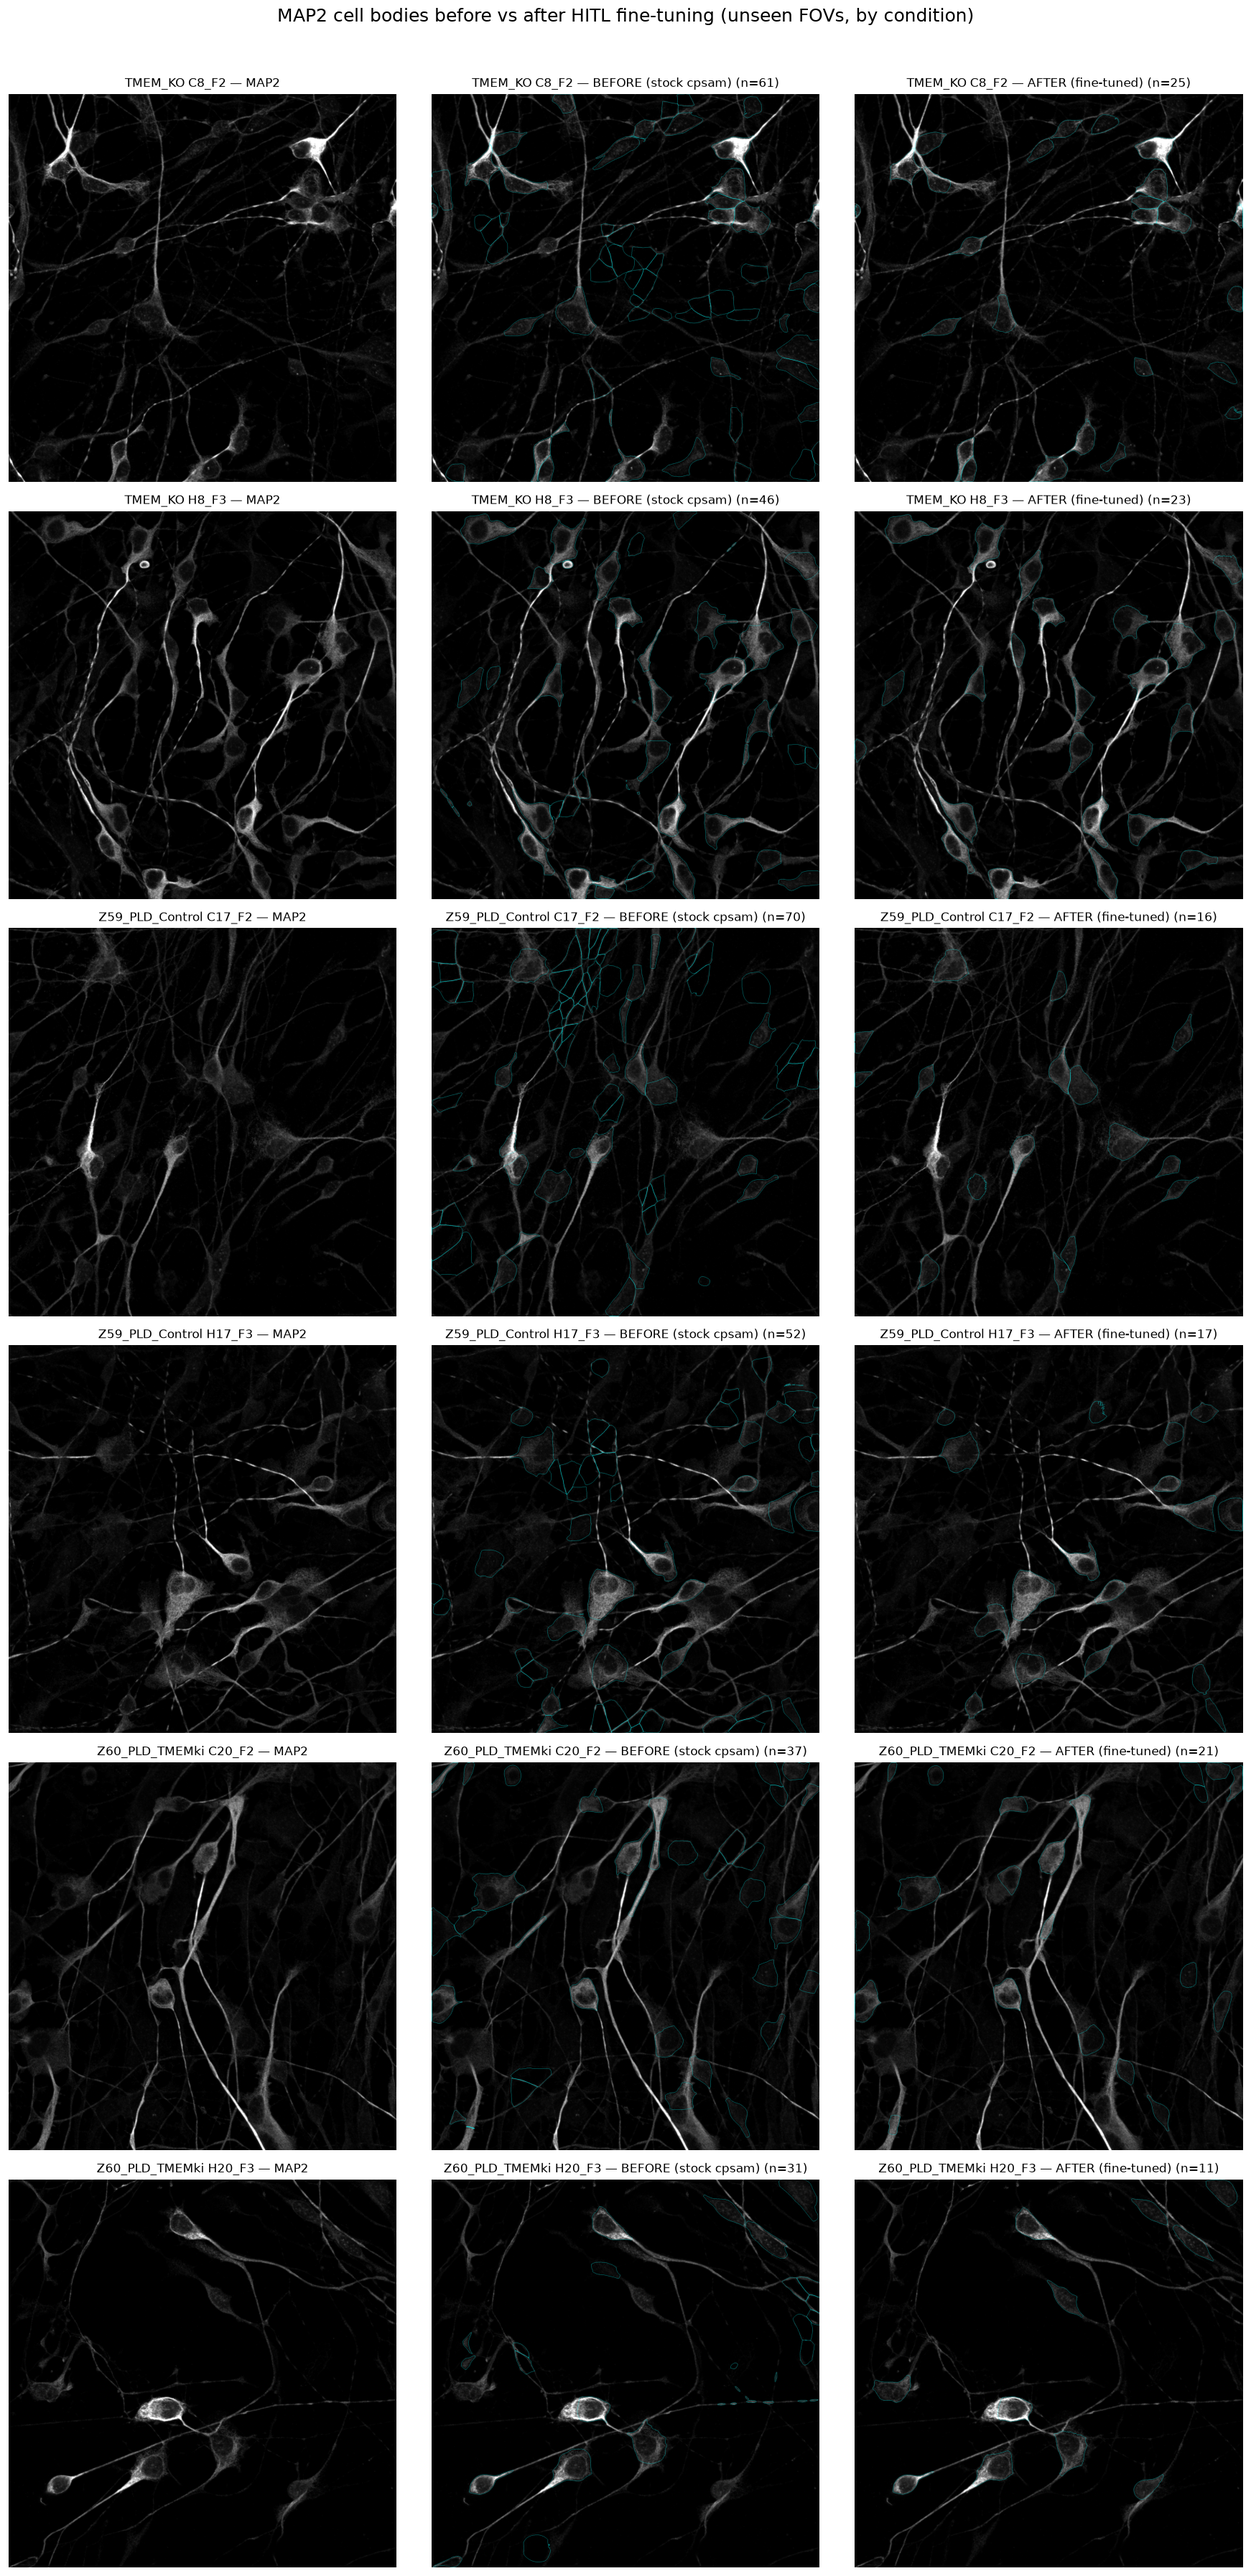
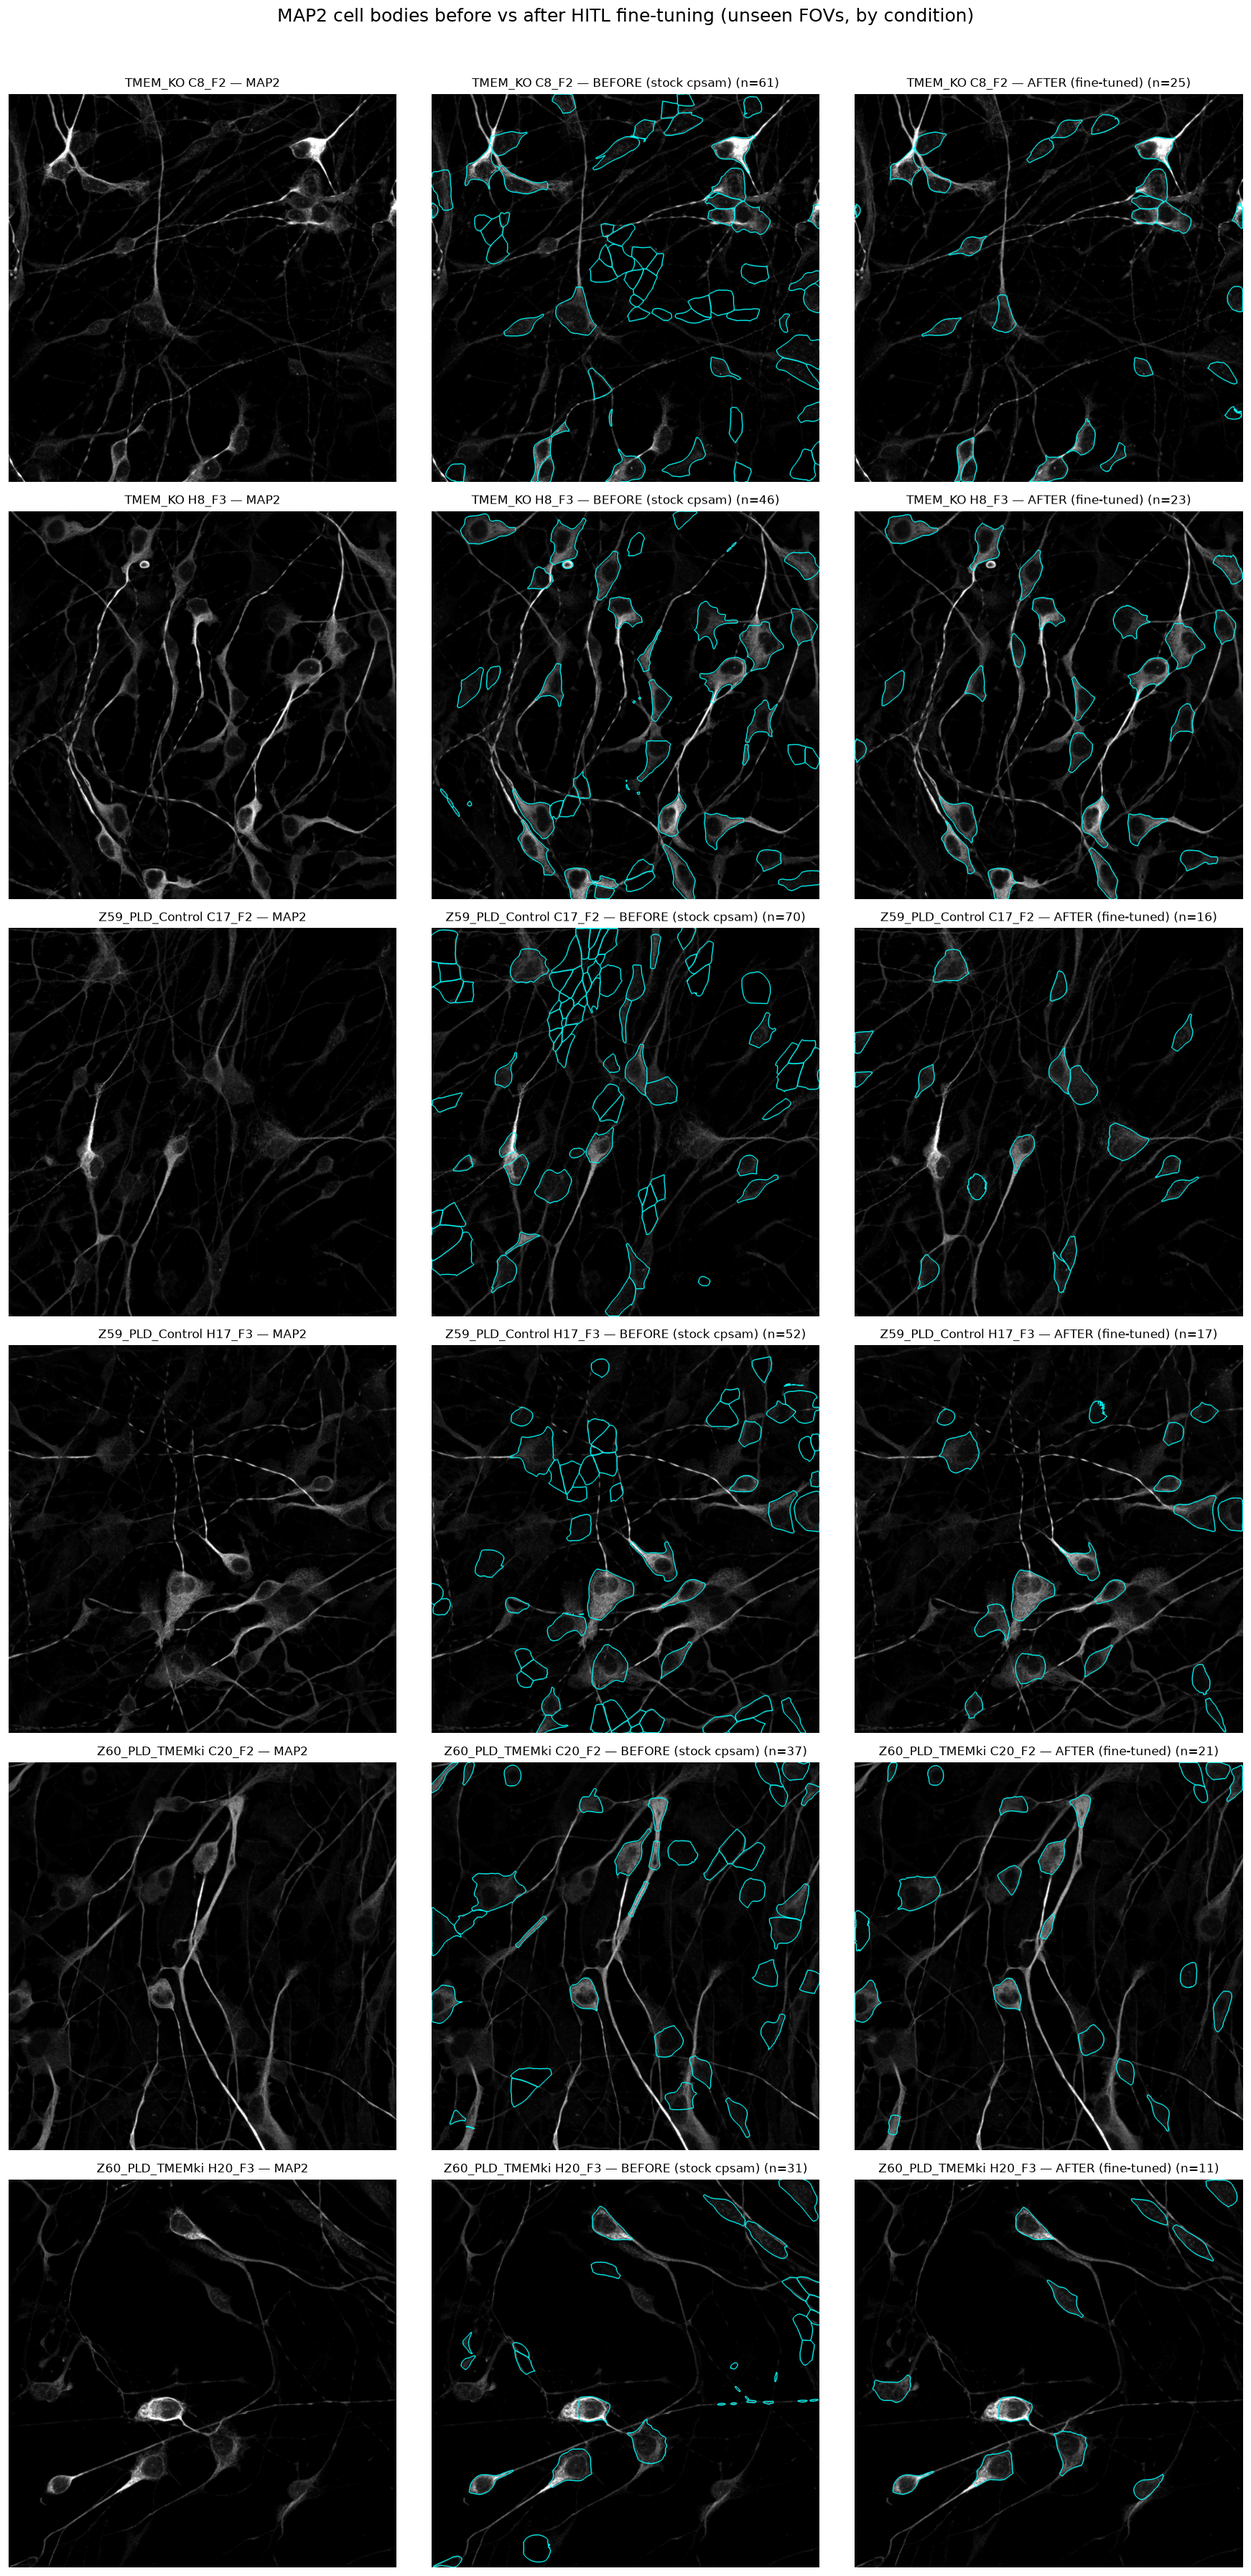
Thicken mask outlines in HITL eval/before-after figures
Dilate boundaries by 2px so soma outlines read clearly against the MAP2 mesh.

diff --git a/notebooks/eval_hitl_cellbody_model.py b/notebooks/eval_hitl_cellbody_model.py
@@ -16,6 +16,7 @@ import numpy as np
 import tifffile
 from cellpose import models
 from cellpose.metrics import average_precision
+from scipy.ndimage import binary_dilation
 from skimage.segmentation import find_boundaries
 
 from tmem_align.analysis.if_spatial import (
@@ -66,7 +67,8 @@ def main() -> None:
             [(gt, "GT (corrected)"), (pred, "fine-tuned cpsam"), (base, "seeded expansion")]
         ):
             rgb = np.stack([gray] * 3, axis=-1)
-            rgb[find_boundaries(masks, mode="outer")] = [0, 1, 1]
+            edges = binary_dilation(find_boundaries(masks, mode="outer"), iterations=2)
+            rgb[edges] = [0, 1, 1]
             ax = axes[i, col] if len(segs) > 1 else axes[col]
             ax.imshow(rgb)
             ax.set_title(f"{stem.split('__')[0]} — {title} (n={int(masks.max())})", fontsize=10)

diff --git a/notebooks/fig_hitl_before_after_by_condition.py b/notebooks/fig_hitl_before_after_by_condition.py
@@ -14,6 +14,7 @@ from pathlib import Path
 import matplotlib.pyplot as plt
 import numpy as np
 from cellpose import models
+from scipy.ndimage import binary_dilation
 from skimage.segmentation import find_boundaries
 
 from tmem_align.analysis.if_spatial import CH_MAP2, apply_display_lut, load_fov
@@ -50,7 +51,8 @@ def pick_fovs(cond_dir: Path) -> list[Path]:
 
 def overlay(ax, gray, masks, title):
     rgb = np.stack([gray] * 3, axis=-1)
-    rgb[find_boundaries(masks, mode="outer")] = [0, 1, 1]
+    edges = binary_dilation(find_boundaries(masks, mode="outer"), iterations=2)
+    rgb[edges] = [0, 1, 1]
     ax.imshow(rgb)
     ax.set_title(f"{title} (n={int(masks.max())})", fontsize=10)
     ax.axis("off")
